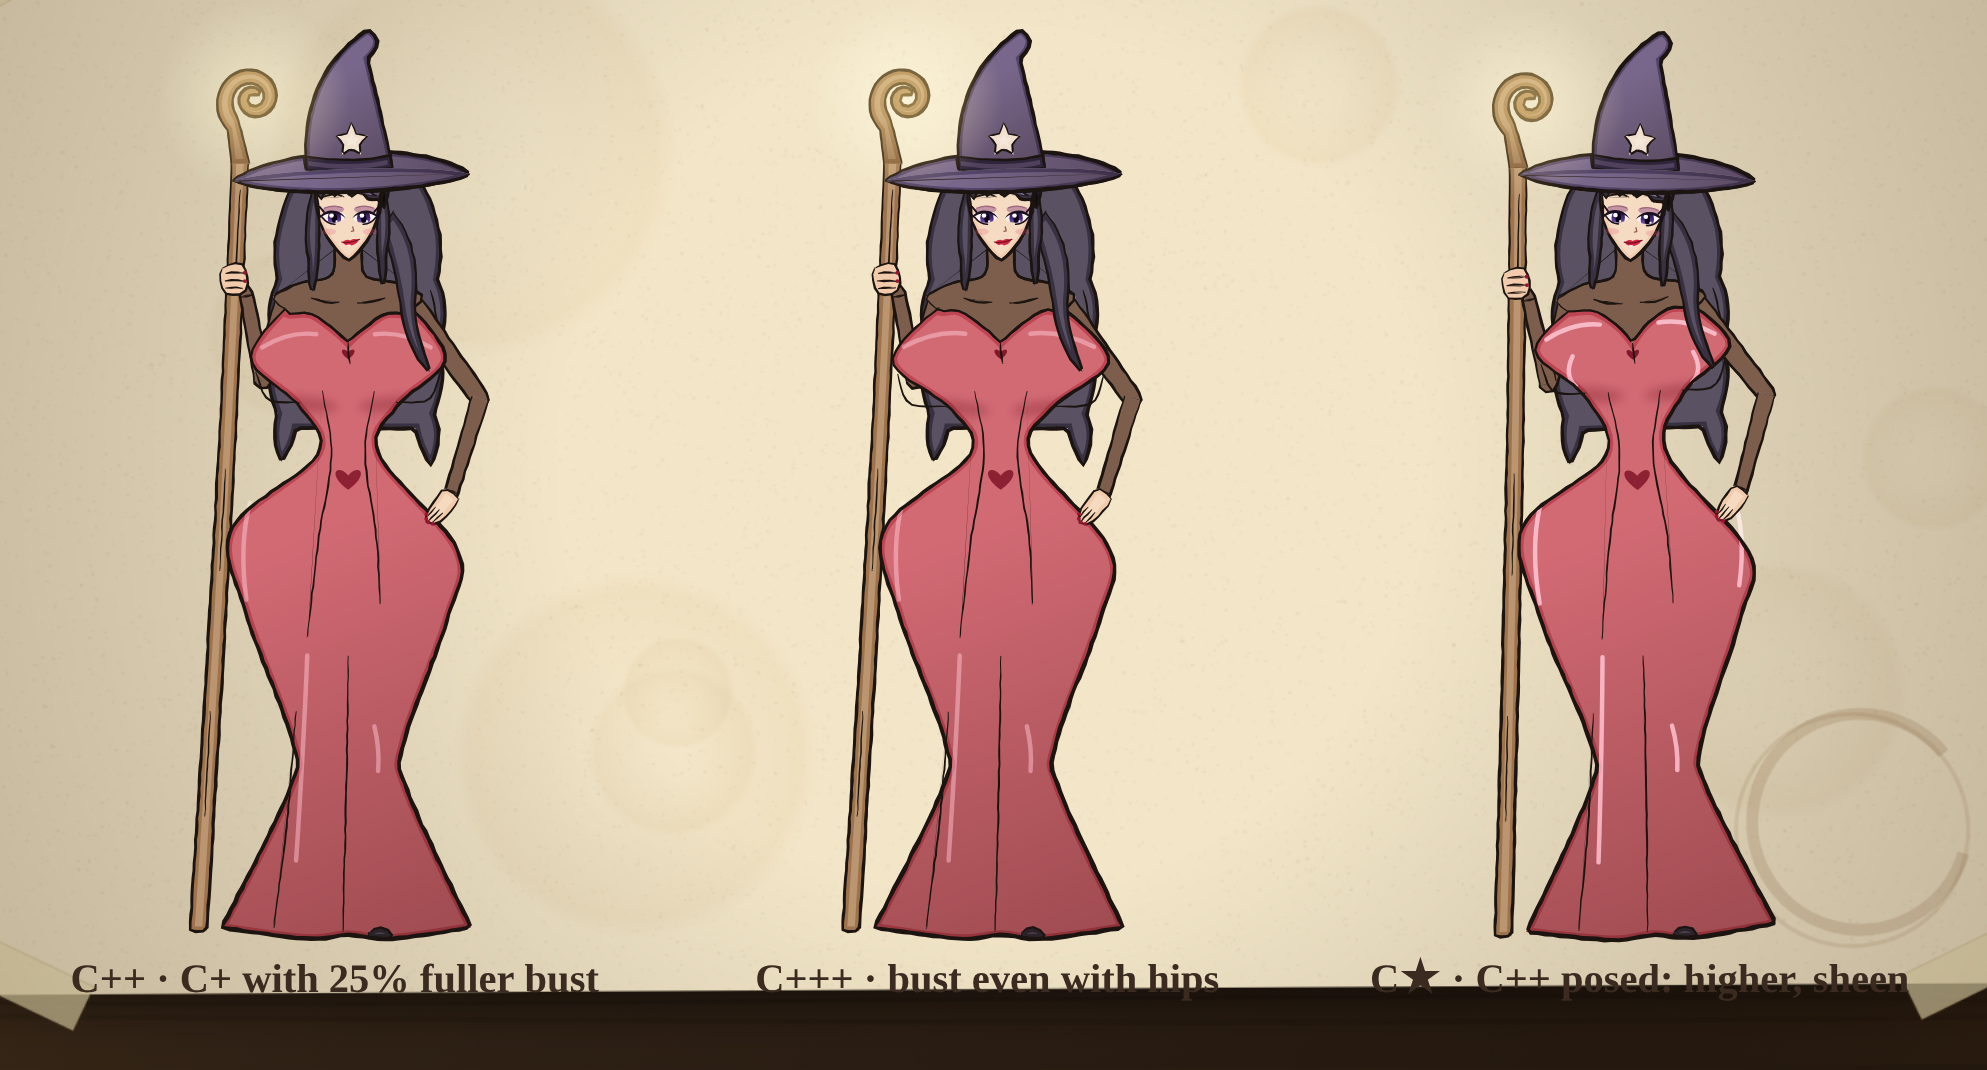
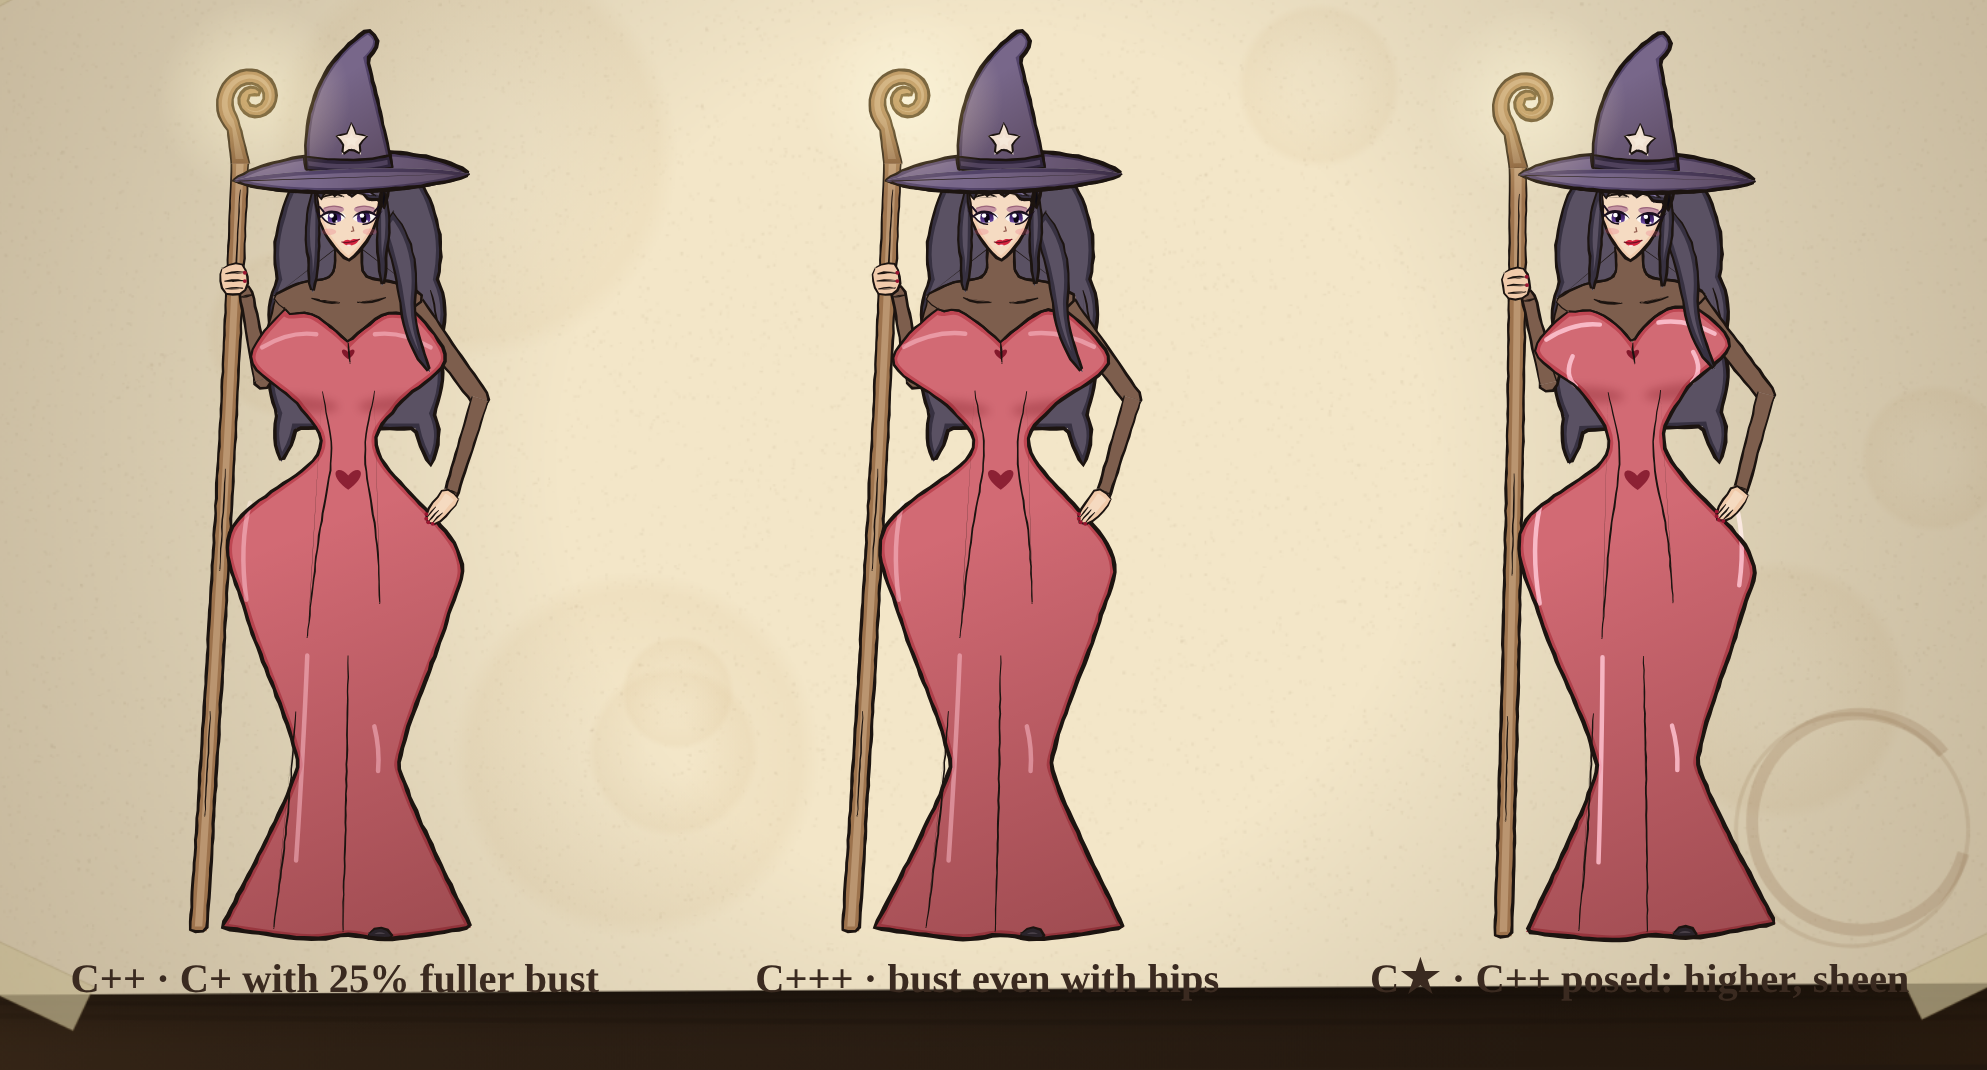
Intro: remove the remaining under-bust accent lines
Claude-Session: https://claude.ai/code/session_01XzFNxAWLNsBGA1aG5XiqgF

Changed region(s): [[0.5304, 0.4626, 0.5617, 0.4935]]

diff --git a/docs/cinematic/wip/style_tests.html b/docs/cinematic/wip/style_tests.html
@@ -474,7 +474,7 @@ canvas { display: block; width: 100%; height: 100%; }
     return {
       gownP: gown,
       gown: MS(crD(gown, true), 2.3),
-      bust: MS(crD(cupL.slice(0, 3), false) + ' ' + crD(mirror(cupL.slice(0, 3)), false) + ' M0 -318 C0 -313 .4 -310 .8 -307', 1.15, 0),
+      bust: MS('M0 -318 C0 -313 .4 -310 .8 -307', 1.15, 0), // only the short cleavage line; no lines under the bust
       seams: MS(crD([[-14, -292], [-9, -258 + L], [-16, -212 + L], [-22, -160]], false) + ' ' + crD([[14, -292], [9, -258 + L], [15, -214 + L], [17, -178]], false) + ' ' + crD([[-28, -120], [-33, -60], [-40, -4]], false) + ' ' + crD([[0, -150], [-1, -80], [-3, -2]], false), 1, 0),
       chestP: chest,
       chest: MS(crD(chest, true), 1.4, 0),
